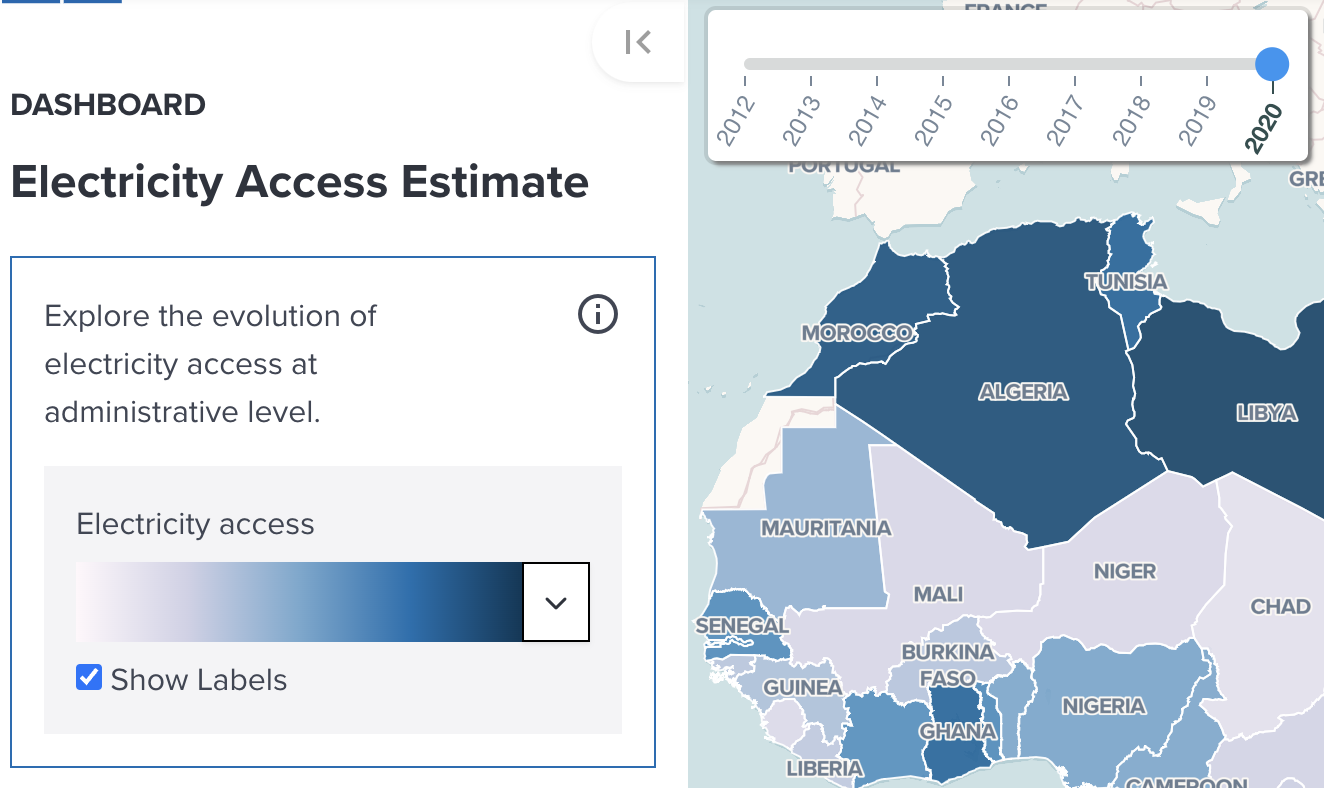
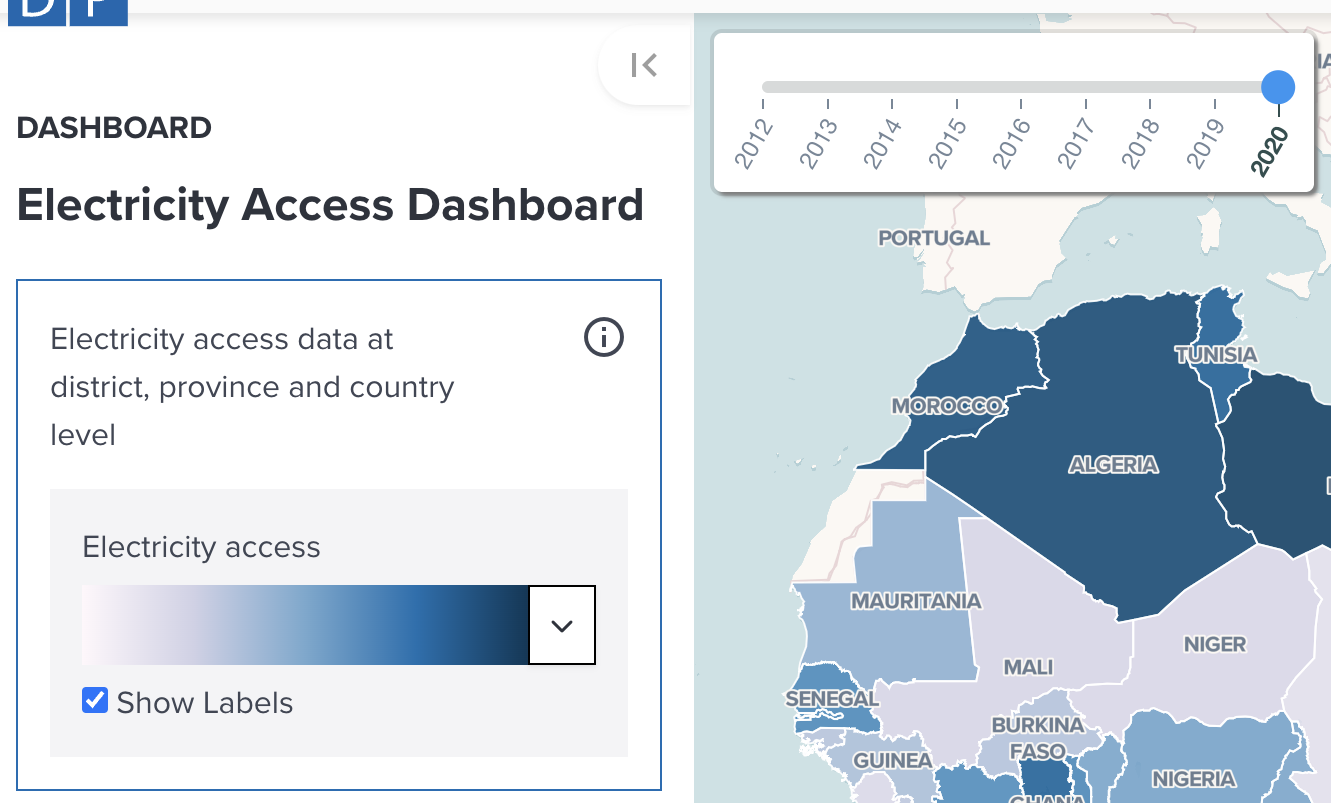
fix: improved introductory texts and menu texts in electricity dashboard.

diff --git a/sites/geohub/src/routes/(map)/dashboards/electricity/components/IntroductionPanel.svelte b/sites/geohub/src/routes/(map)/dashboards/electricity/components/IntroductionPanel.svelte
@@ -22,25 +22,28 @@
 	};
 </script>
 
-<p class="is-size-6 mb-4 has-text-justified">
-	The <b>Electricity</b> dashboard helps identify vulnerable areas in the world that have limited or
-	no access to the electricity.
-</p>
-<p class="is-size-6 mb-4 has-text-justified">
-	Presented here are two raster layers that display the likelihood of full electrification for a
-	given area: <a href="https://hrea.isr.umich.edu">High Resolution Electricity Access (HREA)</a> and
-	Electricity Access Forecast. These are created by the University of Michigan, used to support the 2030
-	Social Development Goal (SDG) 7: ensuring access to affordable, reliable, sustainable and modern energy
-	for all.
-</p>
-<p class="is-size-6 mb-4 has-text-justified">
-	By comparing electricity data yearly with wealth and administrative data, suggestions can be made
-	regarding which areas are most at risk and in need of improvements in electricity infrastructure.
-</p>
+<div class="content">
+	<p class="has-text-justified">Welcome to the UNDP Geohub Electricity Access Dashboard!</p>
+	<p class="has-text-justified">
+		Explore the latest and future trends in electricity access to understand the distribution and
+		location of populations at risk of being left behind in more than 100 countries. These datasets
+		complement household-derived information on electricity access at the subnational level,
+		providing more granular and up-to-date statistics to support electrification plans and
+		investments aimed at achieving universal access by 2030 (SDG7).
+	</p>
+	<p class="has-text-justified has-text-weight-bold">Easy to Use:</p>
+	<ul class="has-text-justified">
+		<li>Access electricity access estimates at different geographical levels.</li>
+		<li>View hyper-granular (1km²) estimates of electricity access from 2012 to 2030.</li>
+		<li>Combine maps showing electricity access and poverty levels.</li>
+	</ul>
+</div>
+
 <button
 	class="button is-link is-uppercase has-text-weight-bold {disabled ? 'is-loading' : ''}"
-	on:click={modalHandler}>Start exploring</button
->
+	on:click={modalHandler}
+	>Start exploring
+</button>
 
 <div class="modal {showDialog ? 'is-active' : ''}">
 	<!-- svelte-ignore a11y-click-events-have-key-events -->
@@ -48,7 +51,7 @@
 	<div class="modal-background" role="dialog" on:click={modalHandler}></div>
 	<div class="modal-content has-background-white p-4">
 		<div class="is-flex is-justify-content-space-between is-align-items-flex-end">
-			<p>Select a starting point to explore data.</p>
+			<p>What do you want to explore?</p>
 			<button class="delete is-white is-large mb-4" aria-label="close" on:click={modalHandler}
 			></button>
 		</div>

diff --git a/sites/geohub/src/routes/(map)/dashboards/electricity/+page.svelte b/sites/geohub/src/routes/(map)/dashboards/electricity/+page.svelte
@@ -186,7 +186,7 @@
 	let dashboardSelections: DashboardType[] = [
 		{
 			name: 'explore',
-			text: 'Explore the evolution of electricity access at administrative level.',
+			text: 'Electricity access data at district, province and country level',
 			mapIcon: '/assets/img/explore.svg',
 			mapIconAlt: 'Explore',
 			show: false,
@@ -195,7 +195,7 @@
 		{
 			name: 'compare',
 			// text: 'Compare empirical with maschine learning data.',
-			text: 'View electricity access data.',
+			text: 'High resolution electricity access data for the past and future',
 			mapIcon: '/assets/img/compare.svg',
 			mapIconAlt: 'Compare',
 			show: false,
@@ -203,7 +203,7 @@
 		},
 		{
 			name: 'analyse',
-			text: 'Analyse bivariate data for wealth and access to electricity.',
+			text: 'Relationship between electricity access and other indicators (e.g. wealth)',
 			mapIcon: '/assets/img/analyse.svg',
 			mapIconAlt: 'Analyse',
 			show: false,
@@ -260,9 +260,9 @@
 	bind:marginTop={$headerHeightStore}
 	border="none"
 >
-	<div slot="content" class="drawer-content m-0 px-4 pt-6">
+	<div slot="content" class="drawer-content m-0 px-4 pt-6 pb-4">
 		<h2 class="title is-size-6 mb-4">DASHBOARD</h2>
-		<h2 class="title is-size-4 mb-5">Electricity Access Estimate</h2>
+		<h2 class="title is-size-4 mb-5">Electricity Access Dashboard</h2>
 
 		{#if showIntro}
 			<IntroductionPanel

diff --git a/documentation/docs/dashboards/electricity.md b/documentation/docs/dashboards/electricity.md
@@ -26,9 +26,11 @@ Currently the GeoHub hosts the UNDP Electricity Dashboard which display the like
 
 There are three ways to explore electricity access after clicking **START EXPLORING** in the dashboard:
 
-- Explore the evolution of electricity access at administrative level;
-- View electricity access data;
-- Analayse bivariate data for wealth and access to electricity.
+--
+
+- Electricity access data at district, province and country level
+- High resolution electricity access data for the past and future
+- Relationship between electricity access and other indicators (e.g. wealth)
 
 --
 
@@ -38,7 +40,7 @@ There are three ways to explore electricity access after clicking **START EXPLOR
 
 ---
 
-## Explore the evolution of electricity access at administrative level
+## Electricity access data at district, province and country level
 
 A selected year data can be overlaid on the map. The layer is a summary of HREA electrification by administrative areas and using a custom population raster to calculate the percentage of population with electricity access in each area.
 
@@ -46,13 +48,13 @@ A selected year data can be overlaid on the map. The layer is a summary of HREA 
 
 You can change a year of displaying the data by moving on the slider, or change a colormap applied to the layer to visualize.
 
-![Explore the evolution of electricity access at administrative level](../assets/dashboards/electricity_feature1.png)
+![Electricity access data at district, province and country level](../assets/dashboards/electricity_feature1.png)
 
 <!-- .element style="height: 400px" -->
 
 ---
 
-## View electricity access data
+## High resolution electricity access data for the past and future
 
 Two types of data can be selelected to allow you to compare electricity access rate for your interested area across multiple years:
 
@@ -77,13 +79,13 @@ The following figure is an example of how statistics is visualized on the chart 
 
 ---
 
-## Analayse bivariate data for wealth and access to electricity
+## Relationship between electricity access and other indicators (e.g. wealth)
 
 This provide a slightly different way for you to explore data by using bivariate data matrix table for wealth index and electricity access. By clicking any cell that you are interested in, the tool automatically filter data on the map to find which administrative area is related.
 
 --
 
-![Analayse bivariate data for wealth and access to electricity](../assets/dashboards/electricity_feature4.png)
+![Relationship between electricity access and wealth indicator](../assets/dashboards/electricity_feature4.png)
 
 <!-- .element style="height: 400px" -->
 

diff --git a/.changeset/hungry-frogs-remember.md b/.changeset/hungry-frogs-remember.md
@@ -1,0 +1,5 @@
+---
+"geohub": patch
+---
+
+fix: improved introductory texts and menu texts in electricity dashboard.
